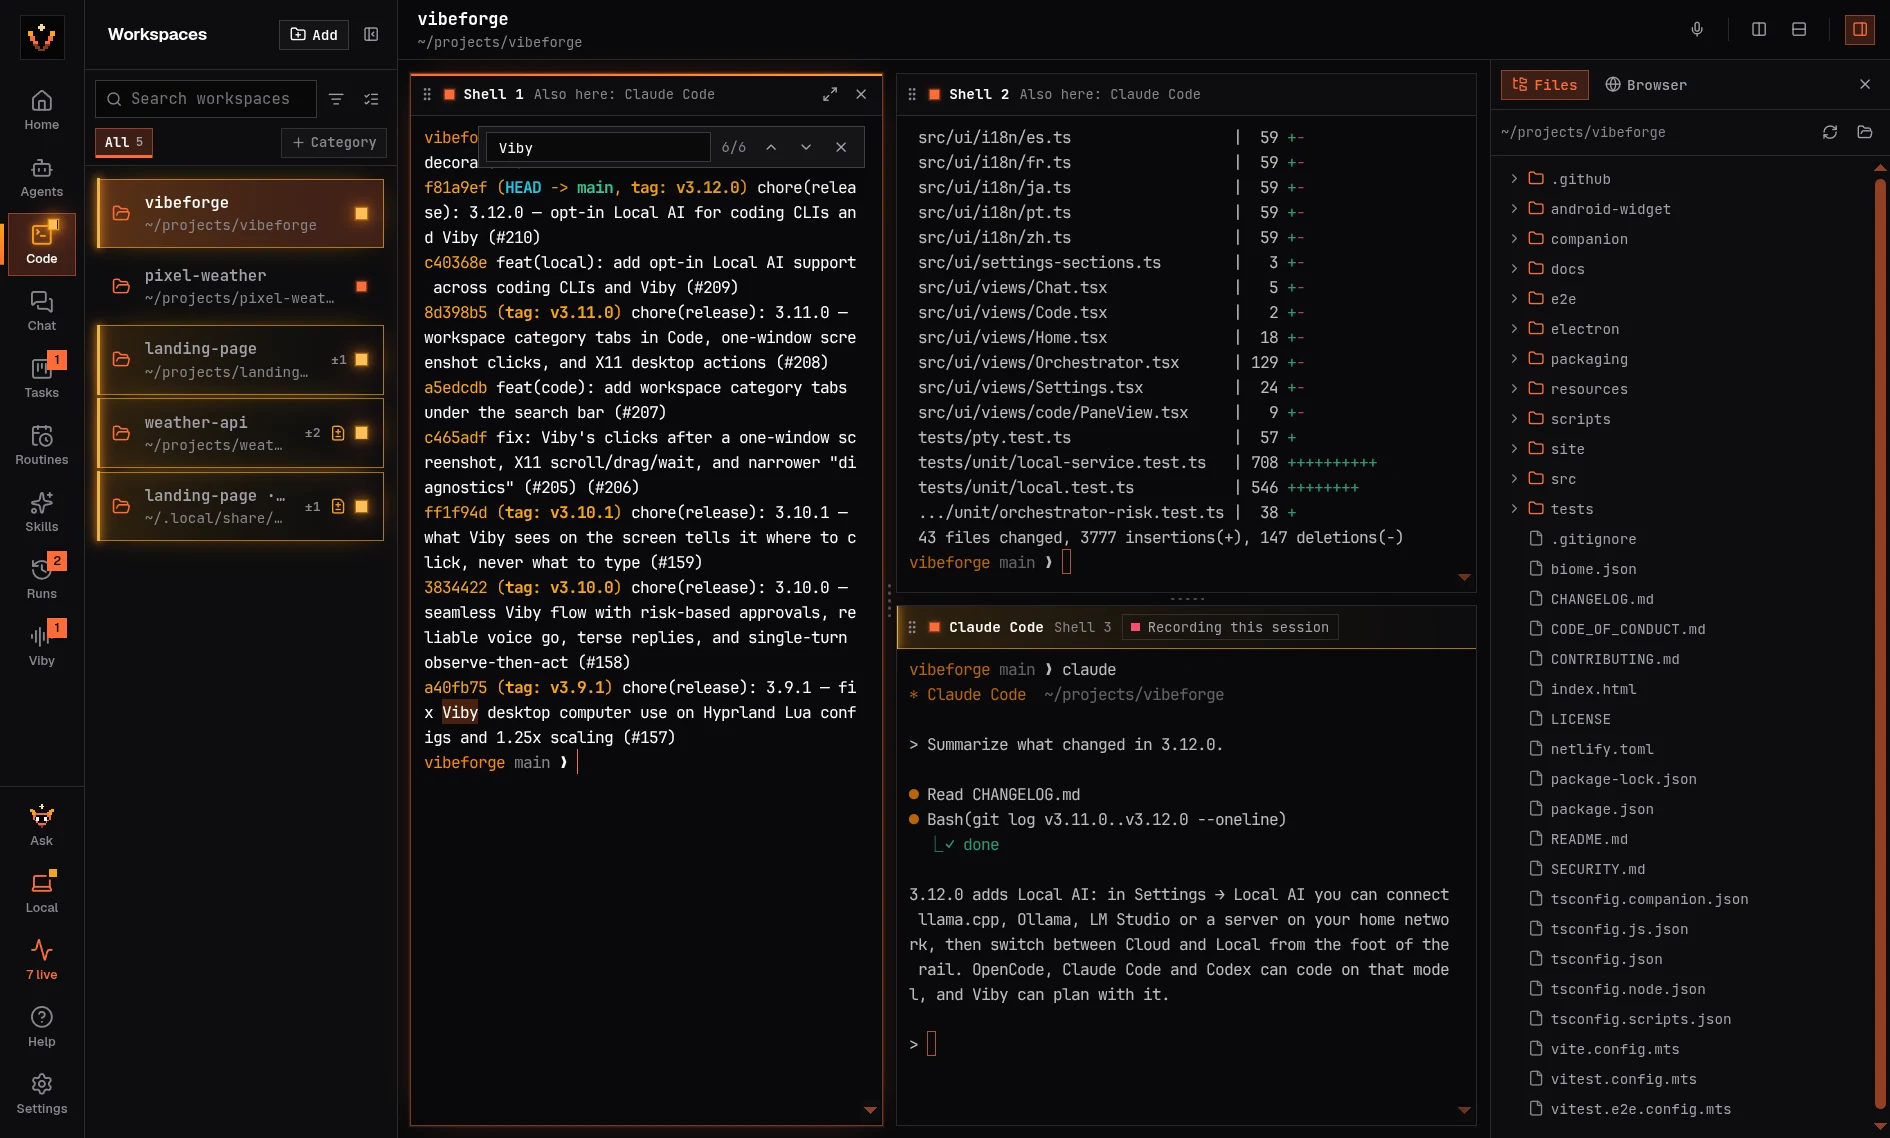
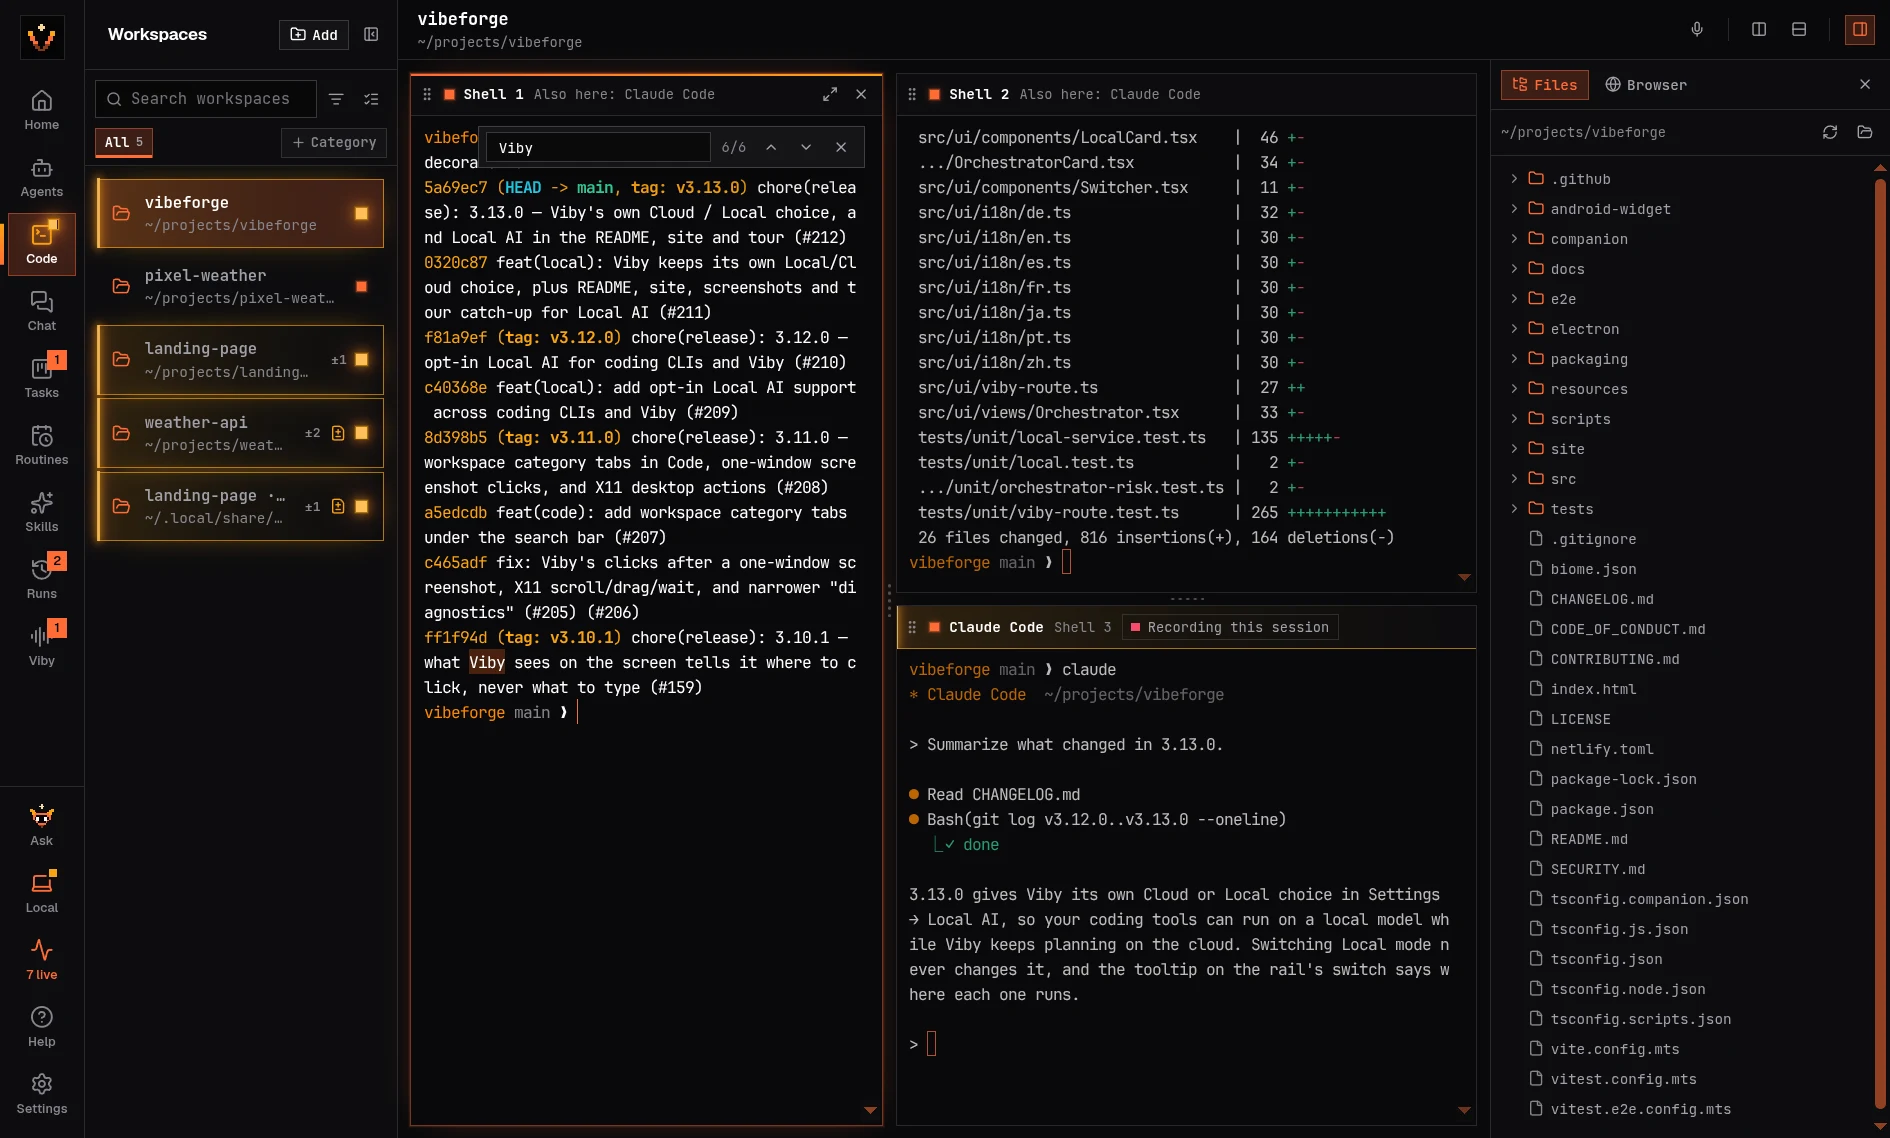
chore(site): retake the tour screenshots on 3.13.0

diff --git a/site/index.html b/site/index.html
@@ -718,7 +718,7 @@
               <img src="assets/app-home.webp?v=3.13.0" width="1890" height="1138" alt="VibeForge Home view showing live terminals, waiting CLIs (one of them on a local model), a run and a branch to review, the commit graph, and the Local switch at the foot of the rail." />
             </figure>
             <figure class="shot">
-              <img src="assets/app-code.webp?v=3.13.0" width="1890" height="1138" alt="VibeForge Code view with tiled terminals, git log, Claude Code recording its session as it sums up 3.12, workspaces and the file tree." loading="lazy" />
+              <img src="assets/app-code.webp?v=3.13.0" width="1890" height="1138" alt="VibeForge Code view with tiled terminals, git log, Claude Code recording its session as it sums up 3.13, workspaces and the file tree." loading="lazy" />
             </figure>
             <figure class="shot">
               <img src="assets/app-tasks.webp?v=3.13.0" width="1890" height="1138" alt="VibeForge Tasks board showing To do, Running, Review and Done columns with worktree diffs." loading="lazy" />
